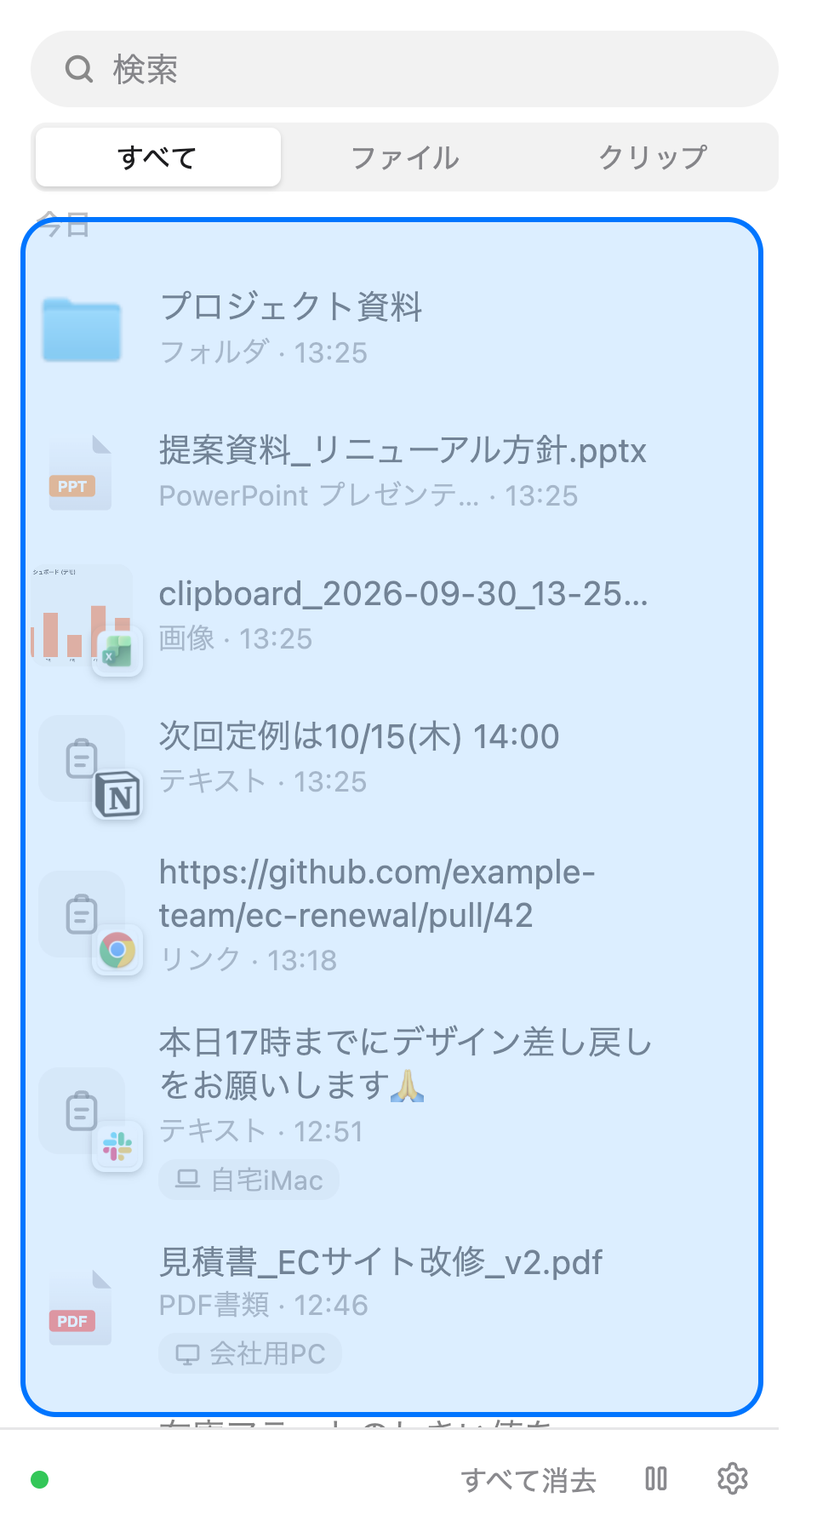
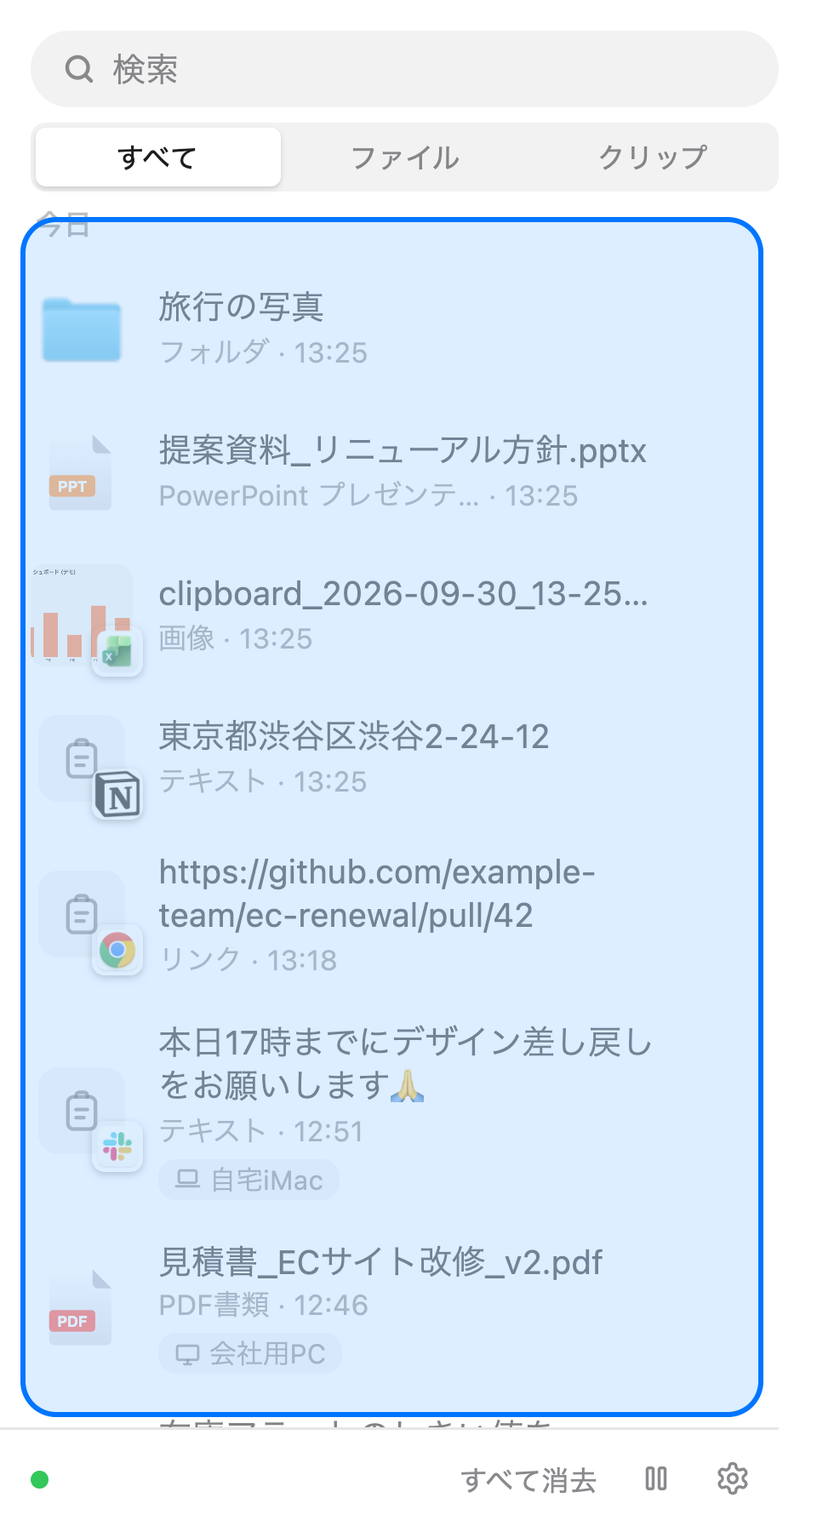
feat(promo): 「届く」クリップを、寄せるカメラと新しい内容に作り直し
- Windows 側は Notepad を外し、最初だけ全景 → パネルへ寄る
- 送る内容を、住所・旅行の写真 (フォルダ)・旅行ダイジェスト.mov などに差し替え

Changed region(s): [[0.1875, 0.4667, 0.6875, 0.4978], [0.1875, 0.1867, 0.5312, 0.2178]]

diff --git a/promo/source/ui/plates-deliver/manifest.js b/promo/source/ui/plates-deliver/manifest.js
@@ -1,1 +1,1 @@
-window.MANIFEST={"win":{"dz":{"top":86,"bottom":559,"left":0,"right":299},"rows":[{"cls":"section-header","top":86,"height":18.84375,"text":"今日"},{"cls":"file-item","top":106.84375,"height":66.390625,"text":"デモ撮影_素材.mov"},{"cls":"file-item","top":175.234375,"height":66.390625,"text":"プロジェクト資料"},{"cls":"file-item","top":243.625,"height":66.390625,"text":"提案資料_リニューアル方針.pptx"},{"cls":"file-item","top":312.015625,"height":66.390625,"text":"clipboard_2026-09-30_13-25-20…"},{"cls":"file-item","top":380.40625,"height":66.390625,"text":"次回定例は10/15(木) 14:00"},{"cls":"file-item","top":448.796875,"height":83.9375,"text":"https://github.com/example-team/ec-renew"},{"cls":"file-item","top":534.734375,"height":83.9375,"text":"本日17時までにデザイン差し戻しをお願いします🙏"},{"cls":"file-item","top":620.671875,"height":54,"text":"見積書_ECサイト改修_v2.pdf"},{"cls":"file-item","top":676.671875,"height":64.9375,"text":"在庫アラートのしきい値を10→15に変更してもらえますか？"},{"cls":"file-item","top":743.609375,"height":54,"text":"clipboard_2026-09-14_15-40-00…"},{"cls":"file-item","top":799.609375,"height":66.390625,"text":"検収書_9月分.pdf"},{"cls":"file-item","top":868,"height":54,"text":"ロゴ差分_v3.png"},{"cls":"file-item","top":924,"height":64.9375,"text":"ssh deploy@192.168.1.42 -p 2222"},{"cls":"file-item","top":990.9375,"height":66.390625,"text":"議事録_1010_定例MTG.txt"},{"cls":"file-item","top":1059.328125,"height":83.9375,"text":"会議室Bを10:00〜11:00で予約しました。プロジェクターの予約も忘れずに。"},{"cls":"file-item","top":1145.265625,"height":66.390625,"text":"契約書_業務委託.docx"},{"cls":"file-item","top":1213.65625,"height":83.9375,"text":"npm run build && npm run deploy"},{"cls":"section-header","top":1299.59375,"height":26.84375,"text":"昨日"},{"cls":"file-item","top":1328.4375,"height":54,"text":"経費精算_9月.xlsx"},{"cls":"file-item","top":1384.4375,"height":66.390625,"text":"clipboard_2026-09-13_11-05-00…"},{"cls":"file-item","top":1452.828125,"height":83.9375,"text":"https://www.figma.com/file/abcd1234/EC-R"},{"cls":"file-item","top":1538.765625,"height":66.390625,"text":"納品リスト_10月.xlsx"}],"sync":{"rows":[{"cls":"section-header","top":86,"height":18.84375,"text":"今日"},{"cls":"file-item syncing entering","top":106.84375,"height":66.390625,"text":"デモ撮影_素材.mov"},{"cls":"file-item","top":175.234375,"height":66.390625,"text":"プロジェクト資料"},{"cls":"file-item","top":243.625,"height":66.390625,"text":"提案資料_リニューアル方針.pptx"},{"cls":"file-item","top":312.015625,"height":66.390625,"text":"clipboard_2026-09-30_13-25-20…"},{"cls":"file-item","top":380.40625,"height":66.390625,"text":"次回定例は10/15(木) 14:00"},{"cls":"file-item","top":448.796875,"height":83.9375,"text":"https://github.com/example-team/ec-renew"},{"cls":"file-item","top":534.734375,"height":83.9375,"text":"本日17時までにデザイン差し戻しをお願いします🙏"},{"cls":"file-item","top":620.671875,"height":54,"text":"見積書_ECサイト改修_v2.pdf"},{"cls":"file-item","top":676.671875,"height":64.9375,"text":"在庫アラートのしきい値を10→15に変更してもらえますか？"},{"cls":"file-item","top":743.609375,"height":54,"text":"clipboard_2026-09-14_15-40-00…"},{"cls":"file-item","top":799.609375,"height":66.390625,"text":"検収書_9月分.pdf"},{"cls":"file-item","top":868,"height":54,"text":"ロゴ差分_v3.png"},{"cls":"file-item","top":924,"height":64.9375,"text":"ssh deploy@192.168.1.42 -p 2222"},{"cls":"file-item","top":990.9375,"height":66.390625,"text":"議事録_1010_定例MTG.txt"},{"cls":"file-item","top":1059.328125,"height":83.9375,"text":"会議室Bを10:00〜11:00で予約しました。プロジェクターの予約も忘れずに。"},{"cls":"file-item","top":1145.265625,"height":66.390625,"text":"契約書_業務委託.docx"},{"cls":"file-item","top":1213.65625,"height":83.9375,"text":"npm run build && npm run deploy"},{"cls":"section-header","top":1299.59375,"height":26.84375,"text":"昨日"},{"cls":"file-item","top":1328.4375,"height":54,"text":"経費精算_9月.xlsx"},{"cls":"file-item","top":1384.4375,"height":66.390625,"text":"clipboard_2026-09-13_11-05-00…"},{"cls":"file-item","top":1452.828125,"height":83.9375,"text":"https://www.figma.com/file/abcd1234/EC-R"},{"cls":"file-item","top":1538.765625,"height":66.390625,"text":"納品リスト_10月.xlsx"}],"idx":1,"spinner":{"x":26.993993759155273,"y":26.181488037109375,"w":18.01201057434082,"h":18.01202392578125,"border":"2px","track":"rgba(120, 120, 128, 0.24)","head":"rgba(60, 60, 67, 0.6)"}}}};
+window.MANIFEST={"win":{"dz":{"top":86,"bottom":559,"left":0,"right":299},"rows":[{"cls":"section-header","top":86,"height":18.84375,"text":"今日"},{"cls":"file-item","top":106.84375,"height":66.390625,"text":"旅行ダイジェスト.mov"},{"cls":"file-item","top":175.234375,"height":66.390625,"text":"旅行の写真"},{"cls":"file-item","top":243.625,"height":66.390625,"text":"提案資料_リニューアル方針.pptx"},{"cls":"file-item","top":312.015625,"height":66.390625,"text":"clipboard_2026-09-30_13-25-20…"},{"cls":"file-item","top":380.40625,"height":66.390625,"text":"東京都渋谷区渋谷2-24-12"},{"cls":"file-item","top":448.796875,"height":83.9375,"text":"https://github.com/example-team/ec-renew"},{"cls":"file-item","top":534.734375,"height":83.9375,"text":"本日17時までにデザイン差し戻しをお願いします🙏"},{"cls":"file-item","top":620.671875,"height":54,"text":"見積書_ECサイト改修_v2.pdf"},{"cls":"file-item","top":676.671875,"height":64.9375,"text":"在庫アラートのしきい値を10→15に変更してもらえますか？"},{"cls":"file-item","top":743.609375,"height":54,"text":"clipboard_2026-09-14_15-40-00…"},{"cls":"file-item","top":799.609375,"height":66.390625,"text":"検収書_9月分.pdf"},{"cls":"file-item","top":868,"height":54,"text":"ロゴ差分_v3.png"},{"cls":"file-item","top":924,"height":64.9375,"text":"ssh deploy@192.168.1.42 -p 2222"},{"cls":"file-item","top":990.9375,"height":66.390625,"text":"議事録_1010_定例MTG.txt"},{"cls":"file-item","top":1059.328125,"height":83.9375,"text":"会議室Bを10:00〜11:00で予約しました。プロジェクターの予約も忘れずに。"},{"cls":"file-item","top":1145.265625,"height":66.390625,"text":"契約書_業務委託.docx"},{"cls":"file-item","top":1213.65625,"height":83.9375,"text":"npm run build && npm run deploy"},{"cls":"section-header","top":1299.59375,"height":26.84375,"text":"昨日"},{"cls":"file-item","top":1328.4375,"height":54,"text":"経費精算_9月.xlsx"},{"cls":"file-item","top":1384.4375,"height":66.390625,"text":"clipboard_2026-09-13_11-05-00…"},{"cls":"file-item","top":1452.828125,"height":83.9375,"text":"https://www.figma.com/file/abcd1234/EC-R"},{"cls":"file-item","top":1538.765625,"height":66.390625,"text":"納品リスト_10月.xlsx"}],"sync":{"rows":[{"cls":"section-header","top":86,"height":18.84375,"text":"今日"},{"cls":"file-item syncing entering","top":106.84375,"height":66.390625,"text":"旅行ダイジェスト.mov"},{"cls":"file-item","top":175.234375,"height":66.390625,"text":"旅行の写真"},{"cls":"file-item","top":243.625,"height":66.390625,"text":"提案資料_リニューアル方針.pptx"},{"cls":"file-item","top":312.015625,"height":66.390625,"text":"clipboard_2026-09-30_13-25-20…"},{"cls":"file-item","top":380.40625,"height":66.390625,"text":"東京都渋谷区渋谷2-24-12"},{"cls":"file-item","top":448.796875,"height":83.9375,"text":"https://github.com/example-team/ec-renew"},{"cls":"file-item","top":534.734375,"height":83.9375,"text":"本日17時までにデザイン差し戻しをお願いします🙏"},{"cls":"file-item","top":620.671875,"height":54,"text":"見積書_ECサイト改修_v2.pdf"},{"cls":"file-item","top":676.671875,"height":64.9375,"text":"在庫アラートのしきい値を10→15に変更してもらえますか？"},{"cls":"file-item","top":743.609375,"height":54,"text":"clipboard_2026-09-14_15-40-00…"},{"cls":"file-item","top":799.609375,"height":66.390625,"text":"検収書_9月分.pdf"},{"cls":"file-item","top":868,"height":54,"text":"ロゴ差分_v3.png"},{"cls":"file-item","top":924,"height":64.9375,"text":"ssh deploy@192.168.1.42 -p 2222"},{"cls":"file-item","top":990.9375,"height":66.390625,"text":"議事録_1010_定例MTG.txt"},{"cls":"file-item","top":1059.328125,"height":83.9375,"text":"会議室Bを10:00〜11:00で予約しました。プロジェクターの予約も忘れずに。"},{"cls":"file-item","top":1145.265625,"height":66.390625,"text":"契約書_業務委託.docx"},{"cls":"file-item","top":1213.65625,"height":83.9375,"text":"npm run build && npm run deploy"},{"cls":"section-header","top":1299.59375,"height":26.84375,"text":"昨日"},{"cls":"file-item","top":1328.4375,"height":54,"text":"経費精算_9月.xlsx"},{"cls":"file-item","top":1384.4375,"height":66.390625,"text":"clipboard_2026-09-13_11-05-00…"},{"cls":"file-item","top":1452.828125,"height":83.9375,"text":"https://www.figma.com/file/abcd1234/EC-R"},{"cls":"file-item","top":1538.765625,"height":66.390625,"text":"納品リスト_10月.xlsx"}],"idx":1,"spinner":{"x":25.904308319091797,"y":25.091812133789062,"w":20.19137954711914,"h":20.191375732421875,"border":"2px","track":"rgba(120, 120, 128, 0.24)","head":"rgba(60, 60, 67, 0.6)"}}}};

diff --git a/promo/source/clip_deliver.html b/promo/source/clip_deliver.html
@@ -71,24 +71,22 @@ html,body{width:1920px;height:1080px;overflow:hidden;background:#eceef5;font-fam
       <span class="stat" id="mstat"><svg viewBox="0 0 20 20"><circle cx="10" cy="10" r="7" stroke="rgba(0,0,0,.18)" stroke-width="2.4"/><circle id="mring" cx="10" cy="10" r="7" stroke="#0a84ff" stroke-width="2.4" stroke-linecap="round" stroke-dasharray="44" stroke-dashoffset="44" transform="rotate(-90 10 10)"/><path id="mtick" d="M6.5 10.3l2.4 2.4 4.6-5" stroke="#1f9d4a" stroke-width="2.2" stroke-linecap="round" stroke-linejoin="round" opacity="0"/></svg></span>
       <span>100%</span><span class="clk">13:26</span></div>
     <div class="win" id="wMemo" style="left:830px;top:70px;width:420px;height:740px"><div class="bar"><i class="tl"></i><i class="tl y"></i><i class="tl g"></i><span style="margin-left:12px">メモ</span></div>
-      <div class="memo"><span class="sl" style="width:280px;margin-bottom:14px"></span><span class="sl" style="width:220px;margin-bottom:26px"></span><span class="ln" id="mln"><i class="selbar" id="msel"></i><span class="t">次回定例は10/15(木) 14:00</span></span><span class="sl" style="width:300px;margin-top:26px"></span><span class="sl" style="width:250px;margin-top:14px"></span>
+      <div class="memo"><span class="sl" style="width:280px;margin-bottom:14px"></span><span class="sl" style="width:220px;margin-bottom:26px"></span><span class="ln" id="mln"><i class="selbar" id="msel"></i><span class="t">東京都渋谷区渋谷2-24-12</span></span><span class="sl" style="width:300px;margin-top:26px"></span><span class="sl" style="width:250px;margin-top:14px"></span>
         <span class="sl" style="width:320px;margin-top:34px"></span><span class="sl" style="width:270px;margin-top:14px"></span><span class="sl" style="width:200px;margin-top:14px"></span></div></div>
     <div class="win" id="wImg" style="left:830px;top:150px;width:420px;height:370px;opacity:0"><div class="bar"><i class="tl"></i><i class="tl y"></i><i class="tl g"></i><span style="margin-left:12px">KPI ダッシュボード</span></div>
       <div class="imgbox" id="mimg"><img src="../../assets/demo/KPIダッシュボード.png"><i class="selring" id="mselring"></i></div></div>
     <div class="win" id="wFin" style="left:830px;top:150px;width:420px;height:300px;opacity:0"><div class="bar"><i class="tl"></i><i class="tl y"></i><i class="tl g"></i><span style="margin-left:12px">書類</span></div>
       <div class="fgrid">
         <div class="fi" id="fi0"><div class="ic" id="fi0i"><svg viewBox="0 0 64 64"><path d="M12 4h28l14 14v38a4 4 0 0 1-4 4H12a4 4 0 0 1-4-4V8a4 4 0 0 1 4-4z" fill="#ffffff" stroke="#b4b8c4" stroke-width="1.6"/><path d="M40 4l14 14H44a4 4 0 0 1-4-4z" fill="#dfe2ea" stroke="#b4b8c4" stroke-width="1.6" stroke-linejoin="round"/><rect x="8" y="34" width="34" height="16" rx="3" fill="#ff8a2a"/><text x="25" y="46.2" font-family="-apple-system,Helvetica,sans-serif" font-size="11" font-weight="800" fill="#fff" text-anchor="middle">PPT</text></svg></div><div class="nm">提案資料…方針.pptx</div></div>
-        <div class="fi" id="fi1"><div class="ic" id="fi1i"><svg viewBox="0 0 100 100"><path d="M8 26a7 7 0 0 1 7-7h20l9 9h41a7 7 0 0 1 7 7v45a7 7 0 0 1-7 7H15a7 7 0 0 1-7-7z" fill="#7cc4ff"/><path d="M8 38h84v40a7 7 0 0 1-7 7H15a7 7 0 0 1-7-7z" fill="#3f98f2"/></svg></div><div class="nm">プロジェクト資料</div></div>
-        <div class="fi" id="fi2"><div class="ic" id="fi2i"><svg viewBox="0 0 64 64"><path d="M12 4h28l14 14v38a4 4 0 0 1-4 4H12a4 4 0 0 1-4-4V8a4 4 0 0 1 4-4z" fill="#ffffff" stroke="#b4b8c4" stroke-width="1.6"/><path d="M40 4l14 14H44a4 4 0 0 1-4-4z" fill="#dfe2ea" stroke="#b4b8c4" stroke-width="1.6" stroke-linejoin="round"/><rect x="8" y="34" width="34" height="16" rx="3" fill="#5b5f6a"/><text x="25" y="46.2" font-family="-apple-system,Helvetica,sans-serif" font-size="11" font-weight="800" fill="#fff" text-anchor="middle">MOV</text></svg></div><div class="nm">デモ撮影_素材.mov</div></div>
+        <div class="fi" id="fi1"><div class="ic" id="fi1i"><svg viewBox="0 0 100 100"><path d="M8 26a7 7 0 0 1 7-7h20l9 9h41a7 7 0 0 1 7 7v45a7 7 0 0 1-7 7H15a7 7 0 0 1-7-7z" fill="#7cc4ff"/><path d="M8 38h84v40a7 7 0 0 1-7 7H15a7 7 0 0 1-7-7z" fill="#3f98f2"/></svg></div><div class="nm">旅行の写真</div></div>
+        <div class="fi" id="fi2"><div class="ic" id="fi2i"><svg viewBox="0 0 64 64"><path d="M12 4h28l14 14v38a4 4 0 0 1-4 4H12a4 4 0 0 1-4-4V8a4 4 0 0 1 4-4z" fill="#ffffff" stroke="#b4b8c4" stroke-width="1.6"/><path d="M40 4l14 14H44a4 4 0 0 1-4-4z" fill="#dfe2ea" stroke="#b4b8c4" stroke-width="1.6" stroke-linejoin="round"/><rect x="8" y="34" width="34" height="16" rx="3" fill="#5b5f6a"/><text x="25" y="46.2" font-family="-apple-system,Helvetica,sans-serif" font-size="11" font-weight="800" fill="#fff" text-anchor="middle">MOV</text></svg></div><div class="nm">旅行ダイジェスト.mov</div></div>
       </div></div>
     <div class="pill" id="mpill"></div>
     <div class="pslot" id="mslot"><div class="panel glass" id="mpanel"></div></div>
     <div class="gtile" id="g0"><svg viewBox="0 0 64 64"><path d="M12 4h28l14 14v38a4 4 0 0 1-4 4H12a4 4 0 0 1-4-4V8a4 4 0 0 1 4-4z" fill="#ffffff" stroke="#b4b8c4" stroke-width="1.6"/><path d="M40 4l14 14H44a4 4 0 0 1-4-4z" fill="#dfe2ea" stroke="#b4b8c4" stroke-width="1.6" stroke-linejoin="round"/><rect x="8" y="34" width="34" height="16" rx="3" fill="#ff8a2a"/><text x="25" y="46.2" font-family="-apple-system,Helvetica,sans-serif" font-size="11" font-weight="800" fill="#fff" text-anchor="middle">PPT</text></svg></div><div class="gtile" id="g1"><svg viewBox="0 0 100 100"><path d="M8 26a7 7 0 0 1 7-7h20l9 9h41a7 7 0 0 1 7 7v45a7 7 0 0 1-7 7H15a7 7 0 0 1-7-7z" fill="#7cc4ff"/><path d="M8 38h84v40a7 7 0 0 1-7 7H15a7 7 0 0 1-7-7z" fill="#3f98f2"/></svg></div><div class="gtile" id="g2"><svg viewBox="0 0 64 64"><path d="M12 4h28l14 14v38a4 4 0 0 1-4 4H12a4 4 0 0 1-4-4V8a4 4 0 0 1 4-4z" fill="#ffffff" stroke="#b4b8c4" stroke-width="1.6"/><path d="M40 4l14 14H44a4 4 0 0 1-4-4z" fill="#dfe2ea" stroke="#b4b8c4" stroke-width="1.6" stroke-linejoin="round"/><rect x="8" y="34" width="34" height="16" rx="3" fill="#5b5f6a"/><text x="25" y="46.2" font-family="-apple-system,Helvetica,sans-serif" font-size="11" font-weight="800" fill="#fff" text-anchor="middle">MOV</text></svg></div>
     <svg class="cursor" id="mcur" viewBox="0 0 34 44"><path d="M3 2v34l9-8 6 14 7-3-6-14 12-1z" fill="#fff" stroke="#000" stroke-width="2.4" stroke-linejoin="round"/></svg>
   </div></div></div>
-  <div class="half" id="hw"><div class="cam"><div class="scr win">
-    <div class="wn" style="left:830px;top:50px;width:420px;height:740px"><div class="cap">メモ帳<span class="cb"><i><svg viewBox="0 0 10 10"><path d="M1 5h8"/></svg></i><i><svg viewBox="0 0 10 10"><rect x="1.5" y="1.5" width="7" height="7"/></svg></i><i><svg viewBox="0 0 10 10"><path d="M1 1l8 8M9 1l-8 8"/></svg></i></span></div>
-      <div class="memo" style="padding-top:38px"><span class="sl" style="width:300px;margin-bottom:14px"></span><span class="sl" style="width:240px;margin-bottom:14px"></span><span class="sl" style="width:280px;margin-bottom:14px"></span><span class="sl" style="width:200px;margin-bottom:14px"></span></div></div>
+  <div class="half" id="hw"><div class="cam" id="wcam"><div class="scr win">
     <div class="pslot" id="wslot" style="transform:none"><div class="panel fluent" id="wpanel"></div></div>
     <div class="taskbar"><div class="tray"><svg viewBox="0 0 24 24"><path d="M2.5 9a14 14 0 0 1 19 0M6 12.5a9 9 0 0 1 12 0M9.5 16a4.2 4.2 0 0 1 5 0"/></svg>
       <span class="stat" id="wstat" style="width:22px;height:22px"><svg viewBox="0 0 20 20" style="width:22px;height:22px"><circle cx="10" cy="10" r="7" stroke="rgba(0,0,0,.18)" stroke-width="2.4"/><circle id="wring" cx="10" cy="10" r="7" stroke="#0a84ff" stroke-width="2.4" stroke-linecap="round" stroke-dasharray="44" stroke-dashoffset="44" transform="rotate(-90 10 10)"/><path id="wtick" d="M6.5 10.3l2.4 2.4 4.6-5" stroke="#1f9d4a" stroke-width="2.2" stroke-linecap="round" stroke-linejoin="round" opacity="0"/></svg></span>
@@ -187,6 +185,9 @@ function ring(T, pre, lag) {
 function render(T) {
   if (!M) measure();
   updateWin(T);
+  // Windows 側のカメラ: 最初は全景 (Mac と同じ画角) → 受け取るパネルへ寄る。パネルを画面の高さいっぱいに大きく映す
+  const zp = E.inOut(P(T, 1.3, 2.2)), zs = lerp(1.13778, 1.6, zp);
+  $('wcam').style.transform = `translate3d(${lerp(-910.2, 911 - 1.6 * 1600, zp).toFixed(2)}px,${lerp(0, 512 - 1.6 * 450, zp).toFixed(2)}px,0) scale(${zs.toFixed(4)})`;
   // ---- Mac の窓 (メモ → 画像 → Finder) ----
   const memoOut = P(T, 3.85, 4.02), imgIn = P(T, 4.05, 4.35), imgOut = P(T, 6.65, 6.82), finIn = P(T, 6.85, 7.15);
   $('wMemo').style.opacity = (1 - memoOut).toFixed(3); $('wMemo').style.transform = `scale(${(1 - .03 * memoOut).toFixed(4)})`;

diff --git a/promo/source/mk_deliver.py b/promo/source/mk_deliver.py
@@ -2,7 +2,7 @@
 """サイト用 (ライト): 「入れたら、もう、届いている。」 — Mac (送る側) と Windows (受け取る側) を左右に並べた 1 本の動画 (1920x1080)。
    画面の作りは clip_compare と同じ (右半分を角丸の「画面」として並べる)。パネルは実アプリの UI (ui/plates-deliver)。
    Windows 側はパネルを開いたままにして、Mac から送ったものが先頭に積もっていくのを見せる (カーソルは Mac だけ)。
-     1 文字     … メモの文を選んでコピー → 同期の輪 → Windows のパネルに現れる
+     1 文字     … メモの住所を選んでコピー → 同期の輪 → Windows のパネルに現れる
      2 画像     … 画像を選んでコピー → 現れる (サムネイル付き)
      3 ファイル … Finder から右端のつまみへドラッグ → 現れる
      4 フォルダ … 同上 (フォルダごと)
@@ -96,24 +96,22 @@ html,body{width:1920px;height:1080px;overflow:hidden;background:#eceef5;font-fam
       <span class="stat" id="mstat"><svg viewBox="0 0 20 20"><circle cx="10" cy="10" r="7" stroke="rgba(0,0,0,.18)" stroke-width="2.4"/><circle id="mring" cx="10" cy="10" r="7" stroke="#0a84ff" stroke-width="2.4" stroke-linecap="round" stroke-dasharray="44" stroke-dashoffset="44" transform="rotate(-90 10 10)"/><path id="mtick" d="M6.5 10.3l2.4 2.4 4.6-5" stroke="#1f9d4a" stroke-width="2.2" stroke-linecap="round" stroke-linejoin="round" opacity="0"/></svg></span>
       <span>100%</span><span class="clk">13:26</span></div>
     <div class="win" id="wMemo" style="left:830px;top:70px;width:420px;height:740px"><div class="bar"><i class="tl"></i><i class="tl y"></i><i class="tl g"></i><span style="margin-left:12px">メモ</span></div>
-      <div class="memo"><span class="sl" style="width:280px;margin-bottom:14px"></span><span class="sl" style="width:220px;margin-bottom:26px"></span><span class="ln" id="mln"><i class="selbar" id="msel"></i><span class="t">次回定例は10/15(木) 14:00</span></span><span class="sl" style="width:300px;margin-top:26px"></span><span class="sl" style="width:250px;margin-top:14px"></span>
+      <div class="memo"><span class="sl" style="width:280px;margin-bottom:14px"></span><span class="sl" style="width:220px;margin-bottom:26px"></span><span class="ln" id="mln"><i class="selbar" id="msel"></i><span class="t">東京都渋谷区渋谷2-24-12</span></span><span class="sl" style="width:300px;margin-top:26px"></span><span class="sl" style="width:250px;margin-top:14px"></span>
         <span class="sl" style="width:320px;margin-top:34px"></span><span class="sl" style="width:270px;margin-top:14px"></span><span class="sl" style="width:200px;margin-top:14px"></span></div></div>
     <div class="win" id="wImg" style="left:830px;top:150px;width:420px;height:370px;opacity:0"><div class="bar"><i class="tl"></i><i class="tl y"></i><i class="tl g"></i><span style="margin-left:12px">KPI ダッシュボード</span></div>
       <div class="imgbox" id="mimg"><img src="../../assets/demo/KPIダッシュボード.png"><i class="selring" id="mselring"></i></div></div>
     <div class="win" id="wFin" style="left:830px;top:150px;width:420px;height:300px;opacity:0"><div class="bar"><i class="tl"></i><i class="tl y"></i><i class="tl g"></i><span style="margin-left:12px">書類</span></div>
       <div class="fgrid">
         <div class="fi" id="fi0"><div class="ic" id="fi0i">__PPTX__</div><div class="nm">提案資料…方針.pptx</div></div>
-        <div class="fi" id="fi1"><div class="ic" id="fi1i">__FOLDER__</div><div class="nm">プロジェクト資料</div></div>
-        <div class="fi" id="fi2"><div class="ic" id="fi2i">__MOV__</div><div class="nm">デモ撮影_素材.mov</div></div>
+        <div class="fi" id="fi1"><div class="ic" id="fi1i">__FOLDER__</div><div class="nm">旅行の写真</div></div>
+        <div class="fi" id="fi2"><div class="ic" id="fi2i">__MOV__</div><div class="nm">旅行ダイジェスト.mov</div></div>
       </div></div>
     <div class="pill" id="mpill"></div>
     <div class="pslot" id="mslot"><div class="panel glass" id="mpanel"></div></div>
     <div class="gtile" id="g0">__PPTX__</div><div class="gtile" id="g1">__FOLDER__</div><div class="gtile" id="g2">__MOV__</div>
     <svg class="cursor" id="mcur" viewBox="0 0 34 44"><path d="M3 2v34l9-8 6 14 7-3-6-14 12-1z" fill="#fff" stroke="#000" stroke-width="2.4" stroke-linejoin="round"/></svg>
   </div></div></div>
-  <div class="half" id="hw"><div class="cam"><div class="scr win">
-    <div class="wn" style="left:830px;top:50px;width:420px;height:740px"><div class="cap">メモ帳<span class="cb"><i><svg viewBox="0 0 10 10"><path d="M1 5h8"/></svg></i><i><svg viewBox="0 0 10 10"><rect x="1.5" y="1.5" width="7" height="7"/></svg></i><i><svg viewBox="0 0 10 10"><path d="M1 1l8 8M9 1l-8 8"/></svg></i></span></div>
-      <div class="memo" style="padding-top:38px"><span class="sl" style="width:300px;margin-bottom:14px"></span><span class="sl" style="width:240px;margin-bottom:14px"></span><span class="sl" style="width:280px;margin-bottom:14px"></span><span class="sl" style="width:200px;margin-bottom:14px"></span></div></div>
+  <div class="half" id="hw"><div class="cam" id="wcam"><div class="scr win">
     <div class="pslot" id="wslot" style="transform:none"><div class="panel fluent" id="wpanel"></div></div>
     <div class="taskbar"><div class="tray"><svg viewBox="0 0 24 24"><path d="M2.5 9a14 14 0 0 1 19 0M6 12.5a9 9 0 0 1 12 0M9.5 16a4.2 4.2 0 0 1 5 0"/></svg>
       <span class="stat" id="wstat" style="width:22px;height:22px"><svg viewBox="0 0 20 20" style="width:22px;height:22px"><circle cx="10" cy="10" r="7" stroke="rgba(0,0,0,.18)" stroke-width="2.4"/><circle id="wring" cx="10" cy="10" r="7" stroke="#0a84ff" stroke-width="2.4" stroke-linecap="round" stroke-dasharray="44" stroke-dashoffset="44" transform="rotate(-90 10 10)"/><path id="wtick" d="M6.5 10.3l2.4 2.4 4.6-5" stroke="#1f9d4a" stroke-width="2.2" stroke-linecap="round" stroke-linejoin="round" opacity="0"/></svg></span>
@@ -212,6 +210,9 @@ function ring(T, pre, lag) {
 function render(T) {
   if (!M) measure();
   updateWin(T);
+  // Windows 側のカメラ: 最初は全景 (Mac と同じ画角) → 受け取るパネルへ寄る。パネルを画面の高さいっぱいに大きく映す
+  const zp = E.inOut(P(T, 1.3, 2.2)), zs = lerp(1.13778, 1.6, zp);
+  $('wcam').style.transform = `translate3d(${lerp(-910.2, 911 - 1.6 * 1600, zp).toFixed(2)}px,${lerp(0, 512 - 1.6 * 450, zp).toFixed(2)}px,0) scale(${zs.toFixed(4)})`;
   // ---- Mac の窓 (メモ → 画像 → Finder) ----
   const memoOut = P(T, 3.85, 4.02), imgIn = P(T, 4.05, 4.35), imgOut = P(T, 6.65, 6.82), finIn = P(T, 6.85, 7.15);
   $('wMemo').style.opacity = (1 - memoOut).toFixed(3); $('wMemo').style.transform = `scale(${(1 - .03 * memoOut).toFixed(4)})`;
